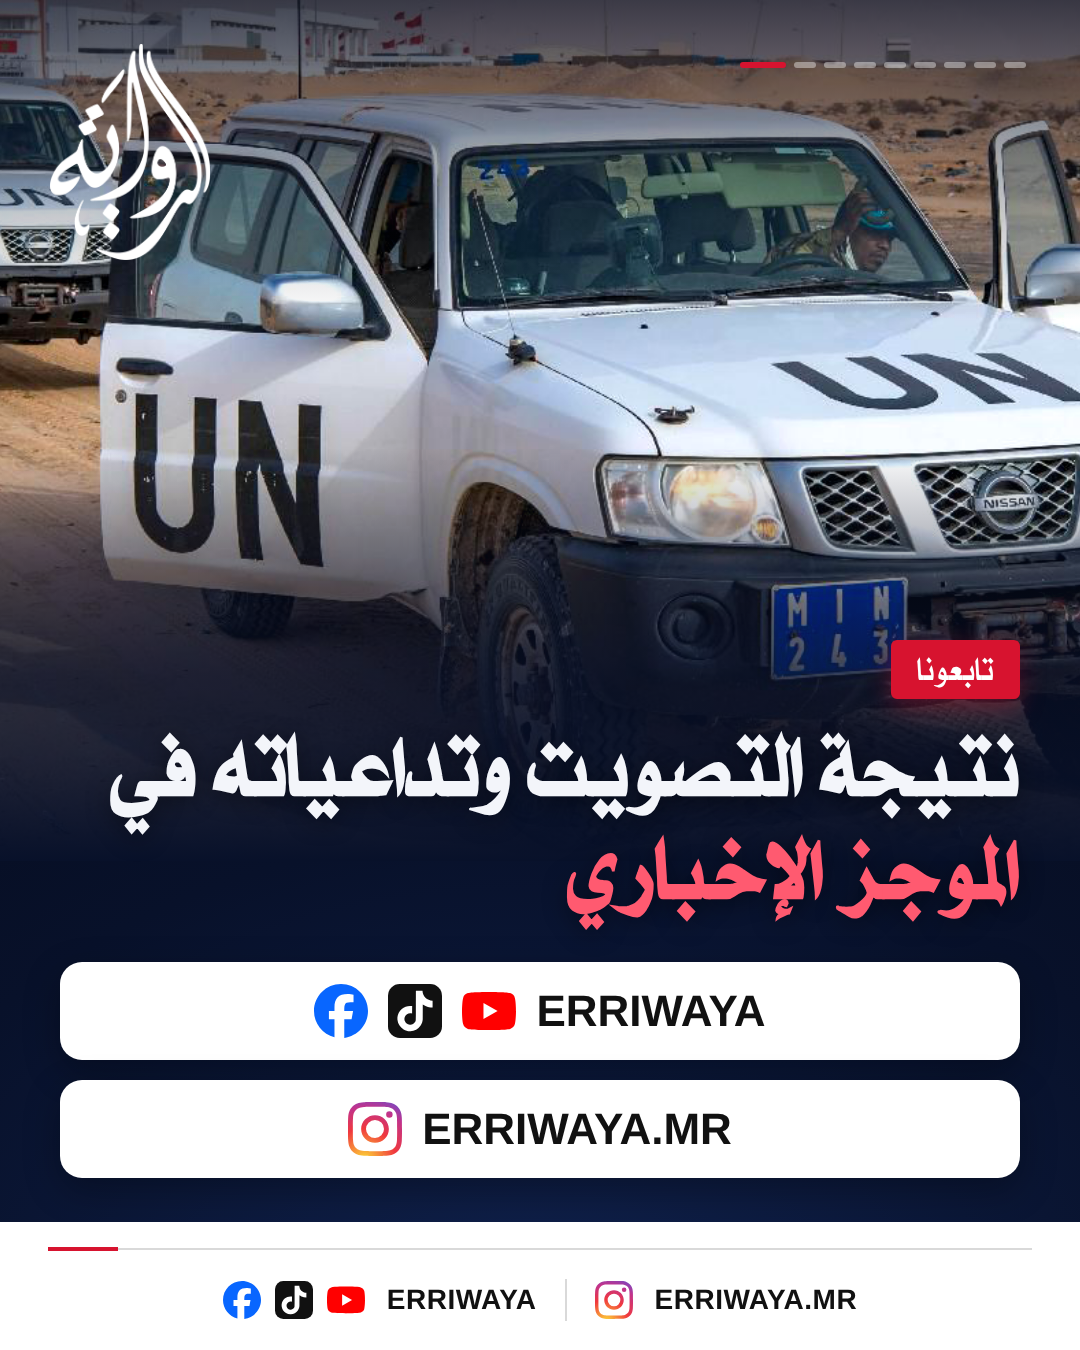
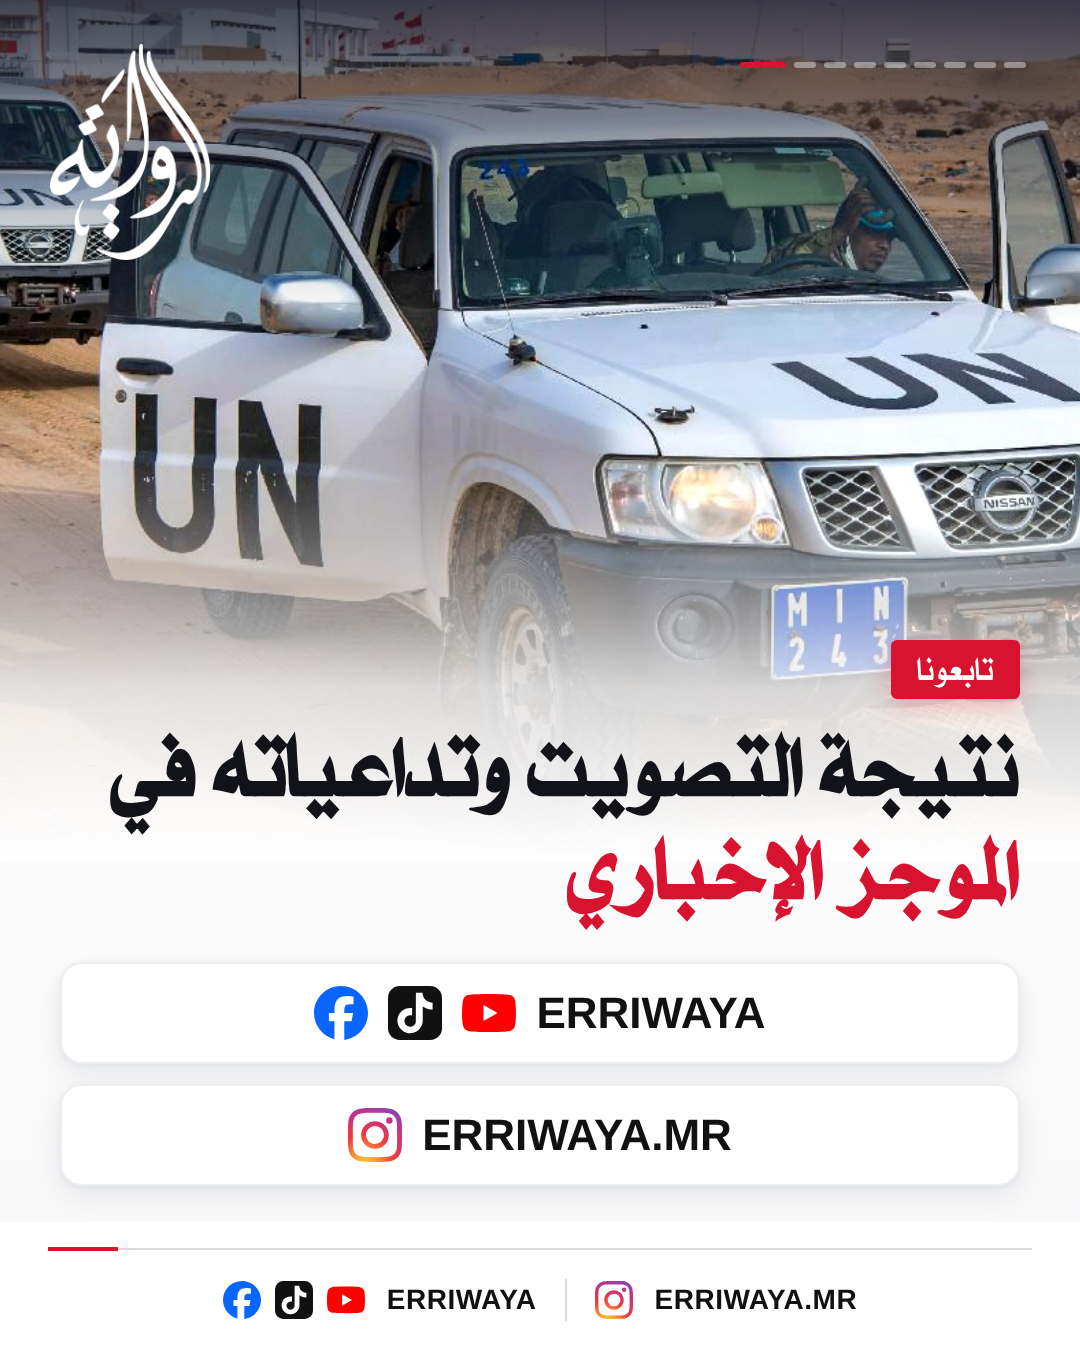
MINURSO carousel: light design (photo fading to white, white cards, red accents)
Claude-Session: https://claude.ai/code/session_01S8ECGBwohQoomeMp3zGTaV

diff --git a/carousels/2026-10-29-minurso/carousel.html b/carousels/2026-10-29-minurso/carousel.html
@@ -7,22 +7,22 @@
   /* Erriwaya post template, premium dark variant (1080x1350): cinematic photo, white logo top-left,
      big white type with red accents, white footer bar with the red-accent rule and the handles */
   @font-face { font-family: AlQuds; src: url(../../assets/fonts/al-quds.otf) format('opentype'); }
-  :root { --bg: #08112A; --bg2: #050A1A; --red: #D7132F; --redt: #FF5A70; --soft: rgba(255,255,255,.08); --edge: rgba(255,255,255,.16);
-          --text: #F3F5FA; --mute: #AEB6C8; --rule: #D9D9D9; }
+  :root { --bg: #FFFFFF; --red: #D7132F; --redt: #D7132F; --soft: #FFFFFF; --edge: #ECEEF2;
+          --text: #111318; --mute: #4B5563; --rule: #D9D9D9; --shadow: 0 10px 30px rgba(17,24,39,.08), 0 2px 6px rgba(17,24,39,.05); }
   html, body { margin: 0; background: #555; }
   body { font-family: AlQuds, sans-serif; color: var(--text); }
   .slide { position: relative; width: 1080px; height: 1350px; overflow: hidden; margin: 0 0 40px;
-           background: radial-gradient(120% 70% at 50% 100%, #10224F 0%, var(--bg) 55%, var(--bg2) 100%); }
+           background: linear-gradient(180deg, #FFFFFF 40%, #F7F7F9 100%); }
   p, h1, h3 { margin: 0; font-weight: normal; }
 
   /* photo: dark veil at the top for the logo, fades into the navy at the bottom */
   .photo { position: absolute; top: 0; left: 0; right: 0; height: 700px; display: flex; }
   .photo img { flex: 1; min-width: 0; height: 100%; object-fit: cover; display: block; filter: saturate(1.08) contrast(1.05); }
-  .photo img + img { border-right: 5px solid var(--bg); }
+  .photo img + img { border-right: 6px solid #fff; }
   .photo::before { content: ''; position: absolute; inset: 0 0 auto 0; height: 320px; z-index: 1;
                    background: linear-gradient(180deg, rgba(5,10,26,.75), rgba(5,10,26,.3) 55%, rgba(5,10,26,0)); }
   .photo::after { content: ''; position: absolute; left: 0; right: 0; bottom: -1px; height: 62%;
-                  background: linear-gradient(180deg, rgba(8,17,42,0), rgba(8,17,42,.75) 55%, var(--bg)); }
+                  background: linear-gradient(180deg, rgba(255,255,255,0), rgba(255,255,255,.82) 58%, #fff); }
   .tall .photo { height: 1000px; }
   .tall .photo::after { height: 48%; }
 
@@ -36,50 +36,51 @@
 
   .body { position: absolute; z-index: 2; left: 60px; right: 60px; top: 520px; bottom: 160px; display: flex; flex-direction: column; }
   .kick { align-self: flex-start; display: inline-flex; align-items: center; gap: 12px; background: var(--red); color: #fff;
-          font-size: 32px; padding: 8px 26px; border-radius: 6px; line-height: 1.35; box-shadow: 0 8px 24px rgba(215,19,47,.35); }
-  h1 { font-size: 88px; line-height: 1.22; font-weight: bold; margin-top: 18px; text-shadow: 0 4px 24px rgba(0,0,0,.45); }
+          font-size: 32px; padding: 8px 26px; border-radius: 6px; line-height: 1.35; box-shadow: 0 8px 24px rgba(215,19,47,.25); }
+  h1 { font-size: 88px; line-height: 1.22; font-weight: bold; margin-top: 18px; }
   .lead { font-size: 42px; line-height: 1.55; color: var(--text); margin-top: 16px; }
   .red { color: var(--redt); }
   .note { font-size: 29px; color: var(--mute); margin-top: auto; line-height: 1.5; }
   .note::before { content: ''; display: inline-block; width: 12px; height: 12px; border-radius: 50%; background: var(--red); margin-left: 12px; }
 
   .grid { display: grid; gap: 20px; margin-top: 30px; }
-  .card { background: var(--soft); border: 2px solid var(--edge); border-radius: 24px; padding: 24px 28px; backdrop-filter: blur(6px); }
+  .card { background: var(--soft); border: 2px solid var(--edge); border-radius: 24px; padding: 24px 28px; box-shadow: var(--shadow); }
   .card h3 { font-size: 42px; font-weight: bold; line-height: 1.3; display: flex; align-items: center; gap: 20px; }
   .card p { font-size: 34px; line-height: 1.5; color: var(--mute); margin-top: 8px; }
   .ic { flex: none; width: 76px; height: 76px; border-radius: 20px; background: var(--red); display: flex; align-items: center; justify-content: center;
-        box-shadow: 0 8px 22px rgba(215,19,47,.35); }
+        box-shadow: 0 8px 22px rgba(215,19,47,.25); }
   .ic svg { width: 42px; height: 42px; fill: none; stroke: #fff; stroke-width: 2; stroke-linecap: round; stroke-linejoin: round; }
-  .hotcard { background: #fff; color: #0B1430; border-color: #fff; }
+  .hotcard { background: #FFF1F3; color: #111318; border-color: #F7C7CF; box-shadow: none; }
   .hotcard p { color: #1F2937; }
 
   .stats { display: grid; grid-template-columns: 1fr 1fr; gap: 20px; margin-top: 34px; }
-  .stat { background: var(--soft); border: 2px solid var(--edge); border-radius: 24px; padding: 26px 16px; text-align: center; }
+  .stat { background: var(--soft); border: 2px solid var(--edge); border-radius: 24px; padding: 26px 16px; text-align: center; box-shadow: var(--shadow); }
   .stat .v { font-size: 96px; font-weight: bold; line-height: 1.1; }
   .stat .n { font-size: 32px; color: var(--mute); line-height: 1.4; margin-top: 6px; }
-  .stat.hot { grid-column: 1 / -1; background: var(--red); border-color: var(--red); box-shadow: 0 14px 40px rgba(215,19,47,.35); }
-  .stat.hot .v { font-size: 120px; }
+  .stat.hot { grid-column: 1 / -1; background: var(--red); border-color: var(--red); box-shadow: 0 14px 40px rgba(215,19,47,.25); }
+  .stat.hot .v { font-size: 120px; color: #fff; }
   .stat.hot .n { color: #FFE1E6; }
+  .stat.hot { color: #fff; }
 
   .tl { position: relative; margin-top: 30px; display: flex; flex-direction: column; gap: 18px; }
-  .tl::before { content: ''; position: absolute; right: 151px; top: 30px; bottom: 30px; width: 4px; background: rgba(255,255,255,.18); border-radius: 2px; }
+  .tl::before { content: ''; position: absolute; right: 151px; top: 30px; bottom: 30px; width: 4px; background: #E5E7EB; border-radius: 2px; }
   .tl .row { display: flex; align-items: center; position: relative; }
   .tl .y { flex: none; width: 128px; font: bold 46px Arial, sans-serif; color: var(--redt); text-align: right; }
-  .tl .row::after { content: ''; position: absolute; right: 140px; width: 18px; height: 18px; border-radius: 50%; background: var(--bg); border: 4px solid var(--red); }
+  .tl .row::after { content: ''; position: absolute; right: 140px; width: 18px; height: 18px; border-radius: 50%; background: #fff; border: 4px solid var(--red); }
   .tl .row.now::after { background: var(--red); box-shadow: 0 0 0 8px rgba(215,19,47,.25); }
-  .tl .row.now .y { color: #fff; }
-  .tl .t { font-size: 38px; line-height: 1.4; background: var(--soft); border: 2px solid var(--edge); border-radius: 18px; padding: 16px 24px; flex: 1; margin-right: 60px; }
+  .tl .row.now .y { color: var(--text); }
+  .tl .t { font-size: 38px; line-height: 1.4; background: var(--soft); box-shadow: var(--shadow); border: 2px solid var(--edge); border-radius: 18px; padding: 16px 24px; flex: 1; margin-right: 60px; }
 
   .pos { grid-template-columns: 1fr 1fr; gap: 18px; }
   .pos .card { padding: 36px 28px; }
   .pos h3 { font-size: 42px; gap: 16px; }
-  .pos p { font-size: 36px; margin-top: 16px; color: var(--text); opacity: .85; }
-  .flag { flex: none; width: 78px; height: 52px; border-radius: 6px; box-shadow: 0 0 0 2px rgba(255,255,255,.25); display: block; }
+  .pos p { font-size: 36px; margin-top: 16px; color: var(--mute); }
+  .flag { flex: none; width: 78px; height: 52px; border-radius: 6px; box-shadow: 0 0 0 2px rgba(0,0,0,.08); display: block; }
 
-  .swipe { position: absolute; z-index: 3; left: 60px; bottom: 175px; display: flex; align-items: center; gap: 14px; font-size: 34px; background: #fff; color: #0B1430;
+  .swipe { position: absolute; z-index: 3; left: 60px; bottom: 175px; display: flex; align-items: center; gap: 14px; font-size: 34px; background: #111318; color: #fff;
            padding: 12px 30px; border-radius: 999px; box-shadow: 0 10px 30px rgba(0,0,0,.35); }
   .swipe b { color: var(--red); font: bold 38px Arial, sans-serif; }
-  .tag { position: absolute; z-index: 2; font-size: 34px; color: #fff; background: rgba(5,10,26,.6); border: 2px solid rgba(255,255,255,.35);
+  .tag { position: absolute; z-index: 2; font-size: 34px; color: #fff; background: rgba(17,19,24,.75); border: 2px solid rgba(255,255,255,.35);
          padding: 8px 22px; border-radius: 999px; }
 
   /* footer bar, as in the post template */
@@ -93,8 +94,8 @@
   .foot svg { width: 38px; height: 38px; display: block; }
 
   .big { display: flex; flex-direction: column; gap: 20px; margin-top: 40px; direction: ltr; }
-  .big div { display: flex; align-items: center; gap: 20px; justify-content: center; background: #fff; color: #111; border-radius: 22px;
-             padding: 22px; font: bold 44px Arial, sans-serif; box-shadow: 0 12px 36px rgba(0,0,0,.3); }
+  .big div { display: flex; align-items: center; gap: 20px; justify-content: center; background: #fff; color: #111; border-radius: 22px; border: 2px solid var(--edge);
+             padding: 22px; font: bold 44px Arial, sans-serif; box-shadow: var(--shadow); }
   .big svg { width: 54px; height: 54px; }
 </style>
 </head>
